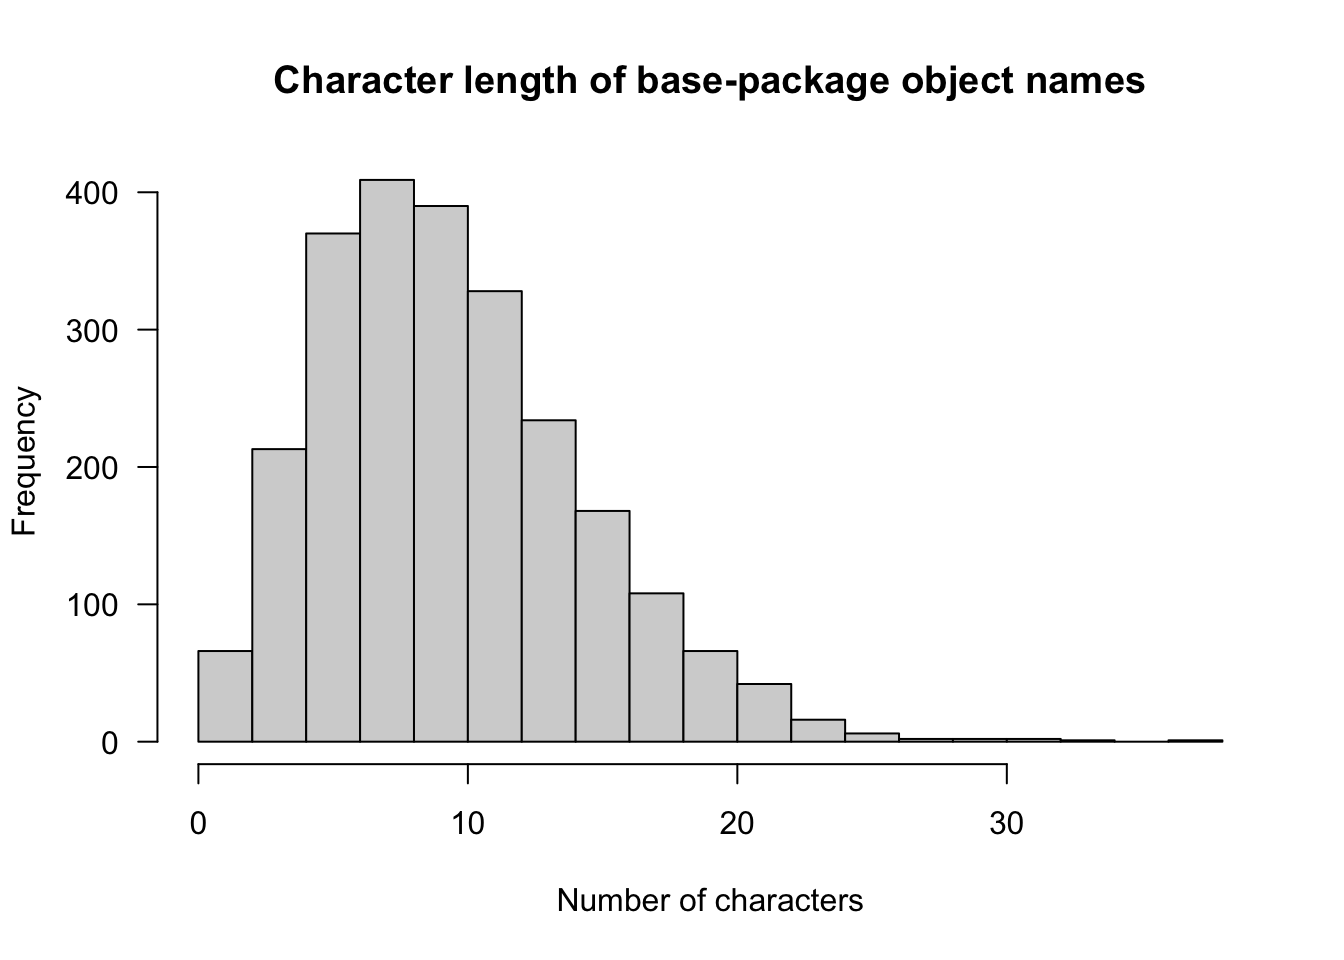
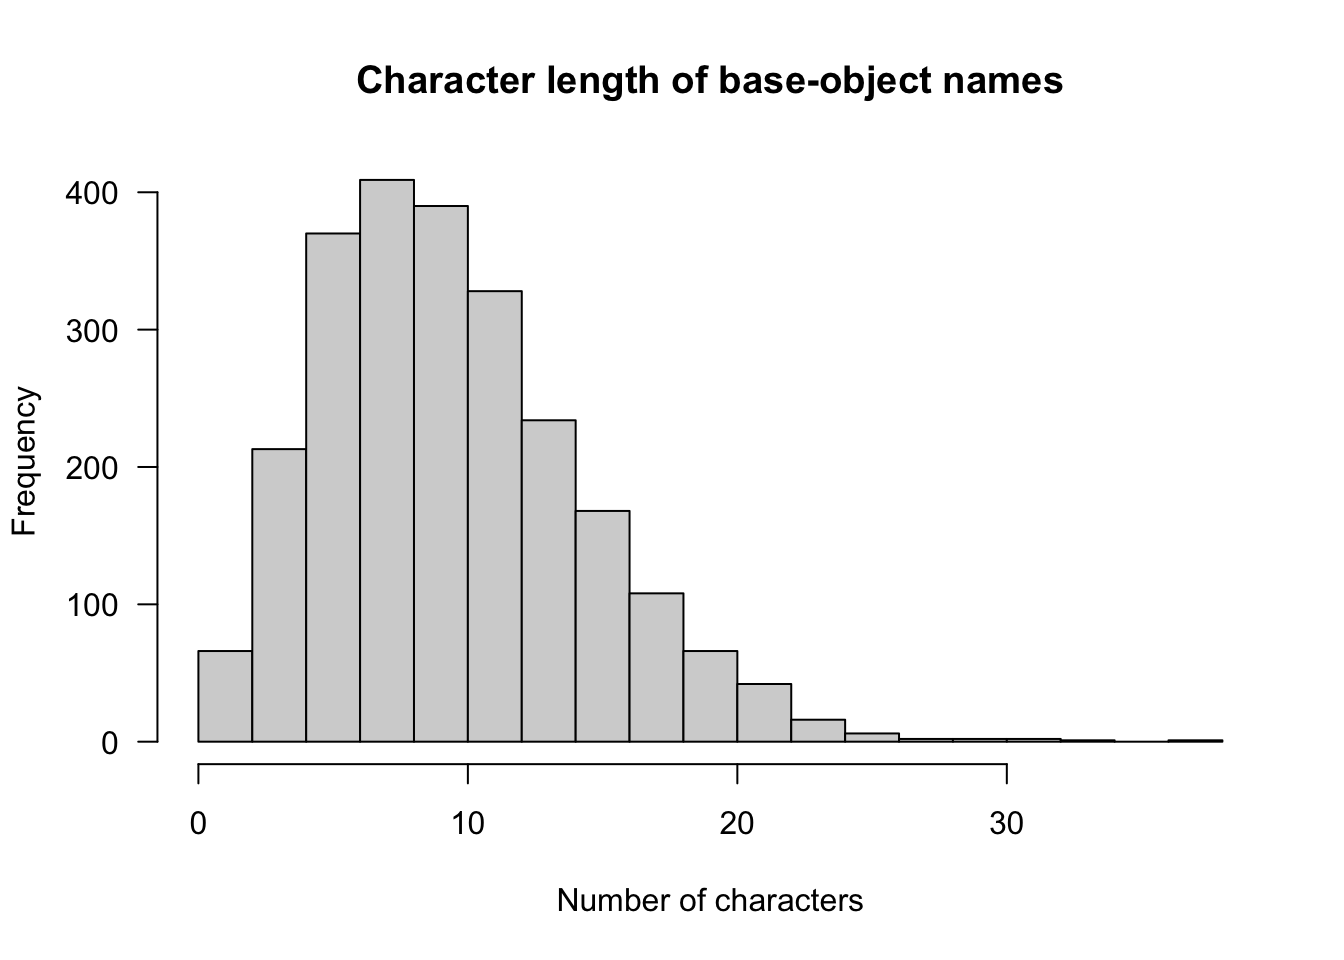
Correct typos, improve copy for long-fns post

Changed region(s): [[0.1875, 0.0625, 0.875, 0.125]]

diff --git a/content/post/2021-11-22-long-fns.html b/content/post/2021-11-22-long-fns.html
@@ -30,9 +30,9 @@ draft: no
 <li>start functions with a prefix to make autocomplete easier, like the <a href="https://matt-dray.github.io/dehex/reference/index.html"><code>dh_*()</code> functions from {dehex}</a></li>
 <li>try to be descriptive but succinct, like <a href="https://matt-dray.github.io/dialga/reference/r2cron.html"><code>r2cron()</code> from {dialga}</a></li>
 </ul>
-<p>It can be tricky to be succinct. Consider the base R function <code>suppressPackageStartupMessages()</code><a href="#fn1" class="footnote-ref" id="fnref1"><sup>1</sup></a>: it’s a whopping 30 characters, but all the words are important and something like <code>suppPkgStartMsg()</code> isn’t so clear.</p>
+<p>It can be tricky to be succinct. Consider the base R function <code>suppressPackageStartupMessages()</code><a href="#fn1" class="footnote-ref" id="fnref1"><sup>1</sup></a>: it’s a whopping 30 characters, but all the words are important. Something shortened, like <code>suppPkgStartMsg()</code>, wouldn’t be so clear.</p>
 <p>It <a href="https://www.rostrum.blog/2021/08/27/zzz/#fn1">made me wonder</a>: what’s the longest function name in R?<a href="#fn2" class="footnote-ref" id="fnref2"><sup>2</sup></a></p>
-<p>But! It seems tricky to and time consuming to find the longest function name from <em>all</em> R packages. CRAN alone has over 18,000 at time of writing.</p>
+<p>But! It seems tricky and time consuming to find the longest function name from <em>all</em> R packages. CRAN alone has over 18,000 at time of writing.</p>
 <p>A much easier (lazier) approach is to focus on some package subsets. I’ll look at base R and the {tidyverse}.</p>
 </div>
 <div id="the-long-and-the-short-of-it" class="section level1">
@@ -45,7 +45,7 @@ base_names</code></pre>
 <pre><code>## [1] &quot;stats&quot;     &quot;graphics&quot;  &quot;grDevices&quot; &quot;utils&quot;     &quot;datasets&quot;  &quot;methods&quot;  
 ## [7] &quot;base&quot;</code></pre>
 <p>How can we fetch all the functions from these packages? We can use <code>ls()</code> to list all their objects, supplying the package name in the format <code>"package:base"</code>, for example. Note that I said ‘objects’, not ‘functions’, since it will also return names that refer to things like datasets.</p>
-<p>For fun, we can use this as an excuse to demo <a href="https://milesmcbain.micro.blog/2021/06/23/how-youd-fix.html">the dog’s balls approach</a> to function-writing in R v4.1.<a href="#fn3" class="footnote-ref" id="fnref3"><sup>3</sup></a></p>
+<p>For fun, we can use this as an excuse to demo ‘lambda’ syntax and <a href="https://milesmcbain.micro.blog/2021/06/23/how-youd-fix.html">the dog’s balls approach</a> to function-writing, both introduced in R v4.1.<a href="#fn3" class="footnote-ref" id="fnref3"><sup>3</sup></a></p>
 <pre class="r"><code>base_pkgs &lt;- paste0(&quot;package:&quot;, base_names)
 
 base_fns &lt;- lapply(base_pkgs, ls) |&gt;
@@ -58,10 +58,10 @@ row.names(base_fns) &lt;- NULL
 base_fns$nchar &lt;- nchar(base_fns$object)
 
 base_fns &lt;- base_fns[order(-base_fns$nchar), ]</code></pre>
-<p>Of the 2424 objects, a quick histogram shows that the most frequent character length is under 10, with a tail stretching out to over 30.</p>
+<p>Of the 2424 objects across these packages, a quick histogram shows that the most frequent character length is under 10, with a tail stretching out to over 30.</p>
 <pre class="r"><code>hist(
   base_fns$nchar,
-  main = &quot;Character length of base-package object names&quot;,
+  main = &quot;Character length of base-object names&quot;,
   xlab = &quot;Number of characters&quot;,
   las = 1
 )</code></pre>
@@ -81,10 +81,10 @@ head(base_fns_top, 10)</code></pre>
 ## 8            print.DLLRegisteredRoutines    base    27
 ## 9             as.data.frame.model.matrix    base    26
 ## 10            conditionMessage.condition    base    26</code></pre>
-<p>So there are four objects with names longer than <code>suppressPackageStartupMessages()</code>, which are rarely used as far as I can tell. The longest is <code>aspell_write_personal_dictionary_file()</code>, which has 37 (!) characters. It’s part of the spellcheck functions in {utils}.</p>
-<p>It’s interesting to me that it follows some of those rules for function naming that I mentioned earlier. It has a verb, is descriptive and uses a prefix for easier autocomplete; <code>aspell</code> refers to <a href="http://aspell.net/">the GNU open-source Aspell spellchecker</a> on which it’s based.</p>
+<p>So there are four objects with names longer than <code>suppressPackageStartupMessages()</code>, though they are rarely used as far as I can tell. The longest is <code>aspell_write_personal_dictionary_file()</code>, which has 37(!) characters. It’s part of the spellcheck functions in {utils}.</p>
+<p>It’s interesting to me that it follows some of those rules for function naming that I mentioned earlier. It has a verb, is descriptive and uses a prefix for easier autocomplete; ‘aspell’ refers to <a href="http://aspell.net/">the GNU open-source Aspell spellchecker</a> on which it’s based.</p>
 <p>I’m intrigued that the function uses snake_case rather than camelCase or dot.case, which seem more prevalent in base functions. You could argue then that the underscores have ‘inflated’ the length by four characters. Similarly, the prefix adds another six characters. So maybe the function could be simplified to <code>writePersonalDictionaryFile()</code>, which is merely 27 characters.</p>
-<p>What about shortest functions? There are many one-character functions.</p>
+<p>What about shortest functions? There are many one-character functions in base R.</p>
 <pre class="r"><code>sort(base_fns[base_fns$nchar == 1, ][[&quot;object&quot;]])</code></pre>
 <pre><code>##  [1] &quot;-&quot; &quot;:&quot; &quot;!&quot; &quot;?&quot; &quot;(&quot; &quot;[&quot; &quot;{&quot; &quot;@&quot; &quot;*&quot; &quot;/&quot; &quot;&amp;&quot; &quot;^&quot; &quot;+&quot; &quot;&lt;&quot; &quot;=&quot; &quot;&gt;&quot; &quot;|&quot; &quot;~&quot; &quot;$&quot;
 ## [20] &quot;c&quot; &quot;C&quot; &quot;D&quot; &quot;F&quot; &quot;I&quot; &quot;q&quot; &quot;t&quot; &quot;T&quot;</code></pre>
@@ -94,7 +94,7 @@ head(base_fns_top, 10)</code></pre>
 <h2>{tidyverse}</h2>
 <p>How about object names from the {tidyverse}?</p>
 <p>To start, we need to attach the packages. Running <code>library(tidyverse)</code> only loads the core packages of the tidyverse, so we need another approach to attach them all.</p>
-<p>One method is to get the a vector of the package names with the <code>tidyverse_packages()</code> function and passing it to <code>p_load()</code> from {pacman}, which prevents the need for a separate <code>library()</code> call for each one.<a href="#fn4" class="footnote-ref" id="fnref4"><sup>4</sup></a></p>
+<p>One method is to get the a vector of the package names with the <code>tidyverse_packages()</code> function and pass it to <code>p_load()</code> from {pacman}, which prevents the need for a separate <code>library()</code> call for each one.<a href="#fn4" class="footnote-ref" id="fnref4"><sup>4</sup></a></p>
 <p>First, here’s the tidyverse packages.</p>
 <pre class="r"><code># install.packages(&quot;tidyverse&quot;)  # if not installed
 suppressPackageStartupMessages(  # in action!
@@ -147,7 +147,7 @@ tidy_fns &lt;- map(tidy_pkgs, ls) |&gt;
 ##  9 haven         vec_arith.haven_labelled            24
 ## 10 rstudioapi    getActiveDocumentContext            24</code></pre>
 <p>The longest two are 32 and 30 characters in length and are both from {googlesheets4}. The help pages say they’re ‘internal {vctrs} methods’. The names of these are long because of the construction: the first part tells us the method name, e.g. <code>vec_ptype2</code>, and the second part tells us that they apply to the <code>googlesheets4_formula</code> S3 class.</p>
-<p>So maybe these don’t really count because they would be called as <code>vec_ptype2()</code> and <code>vec_cast()</code>? And they’re inflated because they contain the package name, {googlesheets4} , which is quite a long one (13 characters). That would leave <code>cli::cli_progress_builtin_handlers()</code> and <code>rstudioapi::getRStudioPackageDependencies()</code> as the next longest (29 characters). The latter uses camelCase—which is typical of the {rstudioapi} package—so isn’t bulked out by underscores.</p>
+<p>So maybe these don’t really count because they would be excuted as as <code>vec_ptype2()</code> and <code>vec_cast()</code>? And they’re inflated because they contain the package name, {googlesheets4} , which is quite a long one (13 characters). That would leave <code>cli::cli_progress_builtin_handlers()</code> and <code>rstudioapi::getRStudioPackageDependencies()</code> as the next longest (29 characters). The latter uses camelCase—which is typical of the {rstudioapi} package—so isn’t bulked out by underscores.</p>
 <p>On the other end of the spectrum, there’s only one function with one character: <code>dplyr::n()</code>. I think it makes sense to avoid single-character functions in non-base packages, because they aren’t terribly descriptive. <code>n()</code> can at least be understood to mean ‘number’.</p>
 <p>Instead, here’s all the two-letter functions from the {tidyverse}. Note that many of these are from {lubridate} and are shorthand expressions that make sense in context, like <code>hm()</code> for hour-minute. You can also see some of {rlang}’s operators creep in here, like bang-bang (<code>!!</code>) and the walrus (<code>:=</code>).<a href="#fn5" class="footnote-ref" id="fnref5"><sup>5</sup></a></p>
 <pre class="r"><code>filter(tidy_fns, nchar == 2)</code></pre>
@@ -273,7 +273,7 @@ Session info
 <div class="footnotes">
 <hr />
 <ol>
-<li id="fn1"><p><a href="https://www.rostrum.blog/2021/08/27/zzz/">I wrote a whole post about this recently</a>.<a href="#fnref1" class="footnote-back">↩</a></p></li>
+<li id="fn1"><p><a href="https://www.rostrum.blog/2021/08/27/zzz/">I wrote recently a whole post about package startup messages</a>.<a href="#fnref1" class="footnote-back">↩</a></p></li>
 <li id="fn2"><p><a href="https://twitter.com/mcguinlu/status/1443257017745948677?s=20">Luke was curious too</a>, so that’s at least two of us. (Luke also noticed that <a href="https://twitter.com/mcguinlu/status/1443256485367197708?s=20">a link to my {linkrot} package was itself rotten</a>, lol.)<a href="#fnref2" class="footnote-back">↩</a></p></li>
 <li id="fn3"><p>My understanding is that a future version of R will allow an underscore as the left-hand-side placeholder, in a similar manner to how the {tidyverse} allows a dot. That will do away with the need for <code>()()</code>. Also ignore my badly-written base code; I’m trying to re-learn.<a href="#fnref3" class="footnote-back">↩</a></p></li>
 <li id="fn4"><p>In fact, <code>p_load()</code> will attempt installation if the package can’t be found in your library. Arguably, this is poor behaviour; you should always ask the user before installing something on their machine.<a href="#fnref4" class="footnote-back">↩</a></p></li>
